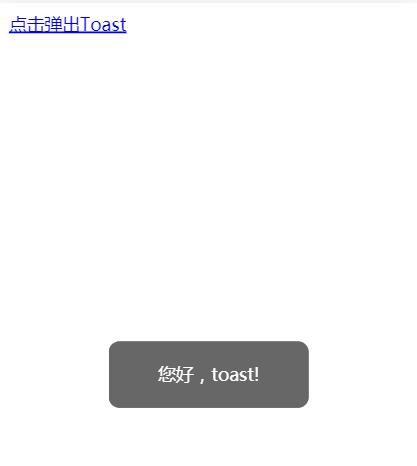
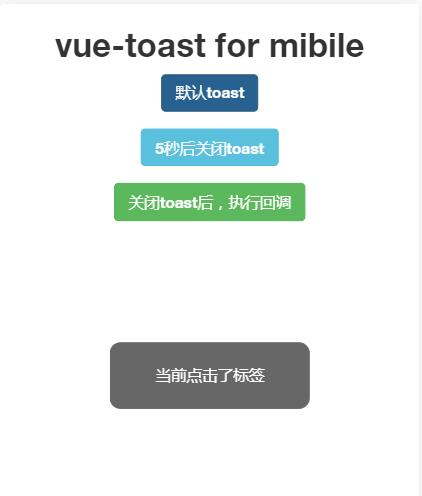
add
拓展功能实现

Changed region(s): [[0.2494, 0.1502, 0.7482, 0.4506], [0.2494, 0.691, 0.7482, 0.9013], [0.0, 0.03, 0.8729, 0.1202]]

diff --git a/dist/vue-toast-demo.js b/dist/vue-toast-demo.js
@@ -1,1 +1,1 @@
-!function(t,e){"object"==typeof exports&&"object"==typeof module?module.exports=e():"function"==typeof define&&define.amd?define([],e):"object"==typeof exports?exports.VueToastDemo=e():t.VueToastDemo=e()}(window,function(){return function(t){var e={};function n(o){if(e[o])return e[o].exports;var r=e[o]={i:o,l:!1,exports:{}};return t[o].call(r.exports,r,r.exports,n),r.l=!0,r.exports}return n.m=t,n.c=e,n.d=function(t,e,o){n.o(t,e)||Object.defineProperty(t,e,{configurable:!1,enumerable:!0,get:o})},n.r=function(t){Object.defineProperty(t,"__esModule",{value:!0})},n.n=function(t){var e=t&&t.__esModule?function(){return t.default}:function(){return t};return n.d(e,"a",e),e},n.o=function(t,e){return Object.prototype.hasOwnProperty.call(t,e)},n.p="",n(n.s=9)}([function(t,e,n){"use strict";Object.defineProperty(e,"__esModule",{value:!0}),e.default={data:function(){return{message:"",visible:!1}}}},function(t,e,n){"use strict";n.d(e,"a",function(){return o}),n.d(e,"b",function(){return r});var o=function(){var t=this.$createElement,e=this._self._c||t;return e("section",{staticClass:"toast-container"},[e("div",{staticClass:"toast",class:[this.visible?"fade-in":"fade-out"]},[e("span",[this._v(this._s(this.message))])])])},r=[];o._withStripped=!0},function(t,e,n){"use strict";function o(t,e,n,o,r,i,a,s){var u=typeof(t=t||{}).default;"object"!==u&&"function"!==u||(t=t.default);var f,c="function"==typeof t?t.options:t;if(e&&(c.render=e,c.staticRenderFns=n,c._compiled=!0),o&&(c.functional=!0),i&&(c._scopeId=i),a?(f=function(t){(t=t||this.$vnode&&this.$vnode.ssrContext||this.parent&&this.parent.$vnode&&this.parent.$vnode.ssrContext)||"undefined"==typeof __VUE_SSR_CONTEXT__||(t=__VUE_SSR_CONTEXT__),r&&r.call(this,t),t&&t._registeredComponents&&t._registeredComponents.add(a)},c._ssrRegister=f):r&&(f=s?function(){r.call(this,this.$root.$options.shadowRoot)}:r),f)if(c.functional){c._injectStyles=f;var l=c.render;c.render=function(t,e){return f.call(e),l(t,e)}}else{var d=c.beforeCreate;c.beforeCreate=d?[].concat(d,f):[f]}return{exports:t,options:c}}n.d(e,"a",function(){return o})},function(t,e){t.exports=function(t){var e="undefined"!=typeof window&&window.location;if(!e)throw new Error("fixUrls requires window.location");if(!t||"string"!=typeof t)return t;var n=e.protocol+"//"+e.host,o=n+e.pathname.replace(/\/[^\/]*$/,"/");return t.replace(/url\s*\(((?:[^)(]|\((?:[^)(]+|\([^)(]*\))*\))*)\)/gi,function(t,e){var r,i=e.trim().replace(/^"(.*)"$/,function(t,e){return e}).replace(/^'(.*)'$/,function(t,e){return e});return/^(#|data:|http:\/\/|https:\/\/|file:\/\/\/|\s*$)/i.test(i)?t:(r=0===i.indexOf("//")?i:0===i.indexOf("/")?n+i:o+i.replace(/^\.\//,""),"url("+JSON.stringify(r)+")")})}},function(t,e,n){var o,r,i={},a=(o=function(){return window&&document&&document.all&&!window.atob},function(){return void 0===r&&(r=o.apply(this,arguments)),r}),s=function(t){var e={};return function(t){if("function"==typeof t)return t();if(void 0===e[t]){var n=function(t){return document.querySelector(t)}.call(this,t);if(window.HTMLIFrameElement&&n instanceof window.HTMLIFrameElement)try{n=n.contentDocument.head}catch(t){n=null}e[t]=n}return e[t]}}(),u=null,f=0,c=[],l=n(3);function d(t,e){for(var n=0;n<t.length;n++){var o=t[n],r=i[o.id];if(r){r.refs++;for(var a=0;a<r.parts.length;a++)r.parts[a](o.parts[a]);for(;a<o.parts.length;a++)r.parts.push(y(o.parts[a],e))}else{var s=[];for(a=0;a<o.parts.length;a++)s.push(y(o.parts[a],e));i[o.id]={id:o.id,refs:1,parts:s}}}}function p(t,e){for(var n=[],o={},r=0;r<t.length;r++){var i=t[r],a=e.base?i[0]+e.base:i[0],s={css:i[1],media:i[2],sourceMap:i[3]};o[a]?o[a].parts.push(s):n.push(o[a]={id:a,parts:[s]})}return n}function v(t,e){var n=s(t.insertInto);if(!n)throw new Error("Couldn't find a style target. This probably means that the value for the 'insertInto' parameter is invalid.");var o=c[c.length-1];if("top"===t.insertAt)o?o.nextSibling?n.insertBefore(e,o.nextSibling):n.appendChild(e):n.insertBefore(e,n.firstChild),c.push(e);else if("bottom"===t.insertAt)n.appendChild(e);else{if("object"!=typeof t.insertAt||!t.insertAt.before)throw new Error("[Style Loader]\n\n Invalid value for parameter 'insertAt' ('options.insertAt') found.\n Must be 'top', 'bottom', or Object.\n (https://github.com/webpack-contrib/style-loader#insertat)\n");var r=s(t.insertInto+" "+t.insertAt.before);n.insertBefore(e,r)}}function h(t){if(null===t.parentNode)return!1;t.parentNode.removeChild(t);var e=c.indexOf(t);e>=0&&c.splice(e,1)}function m(t){var e=document.createElement("style");return t.attrs.type="text/css",b(e,t.attrs),v(t,e),e}function b(t,e){Object.keys(e).forEach(function(n){t.setAttribute(n,e[n])})}function y(t,e){var n,o,r,i;if(e.transform&&t.css){if(!(i=e.transform(t.css)))return function(){};t.css=i}if(e.singleton){var a=f++;n=u||(u=m(e)),o=w.bind(null,n,a,!1),r=w.bind(null,n,a,!0)}else t.sourceMap&&"function"==typeof URL&&"function"==typeof URL.createObjectURL&&"function"==typeof URL.revokeObjectURL&&"function"==typeof Blob&&"function"==typeof btoa?(n=function(t){var e=document.createElement("link");return t.attrs.type="text/css",t.attrs.rel="stylesheet",b(e,t.attrs),v(t,e),e}(e),o=function(t,e,n){var o=n.css,r=n.sourceMap,i=void 0===e.convertToAbsoluteUrls&&r;(e.convertToAbsoluteUrls||i)&&(o=l(o));r&&(o+="\n/*# sourceMappingURL=data:application/json;base64,"+btoa(unescape(encodeURIComponent(JSON.stringify(r))))+" */");var a=new Blob([o],{type:"text/css"}),s=t.href;t.href=URL.createObjectURL(a),s&&URL.revokeObjectURL(s)}.bind(null,n,e),r=function(){h(n),n.href&&URL.revokeObjectURL(n.href)}):(n=m(e),o=function(t,e){var n=e.css,o=e.media;o&&t.setAttribute("media",o);if(t.styleSheet)t.styleSheet.cssText=n;else{for(;t.firstChild;)t.removeChild(t.firstChild);t.appendChild(document.createTextNode(n))}}.bind(null,n),r=function(){h(n)});return o(t),function(e){if(e){if(e.css===t.css&&e.media===t.media&&e.sourceMap===t.sourceMap)return;o(t=e)}else r()}}t.exports=function(t,e){if("undefined"!=typeof DEBUG&&DEBUG&&"object"!=typeof document)throw new Error("The style-loader cannot be used in a non-browser environment");(e=e||{}).attrs="object"==typeof e.attrs?e.attrs:{},e.singleton||"boolean"==typeof e.singleton||(e.singleton=a()),e.insertInto||(e.insertInto="head"),e.insertAt||(e.insertAt="bottom");var n=p(t,e);return d(n,e),function(t){for(var o=[],r=0;r<n.length;r++){var a=n[r];(s=i[a.id]).refs--,o.push(s)}t&&d(p(t,e),e);for(r=0;r<o.length;r++){var s;if(0===(s=o[r]).refs){for(var u=0;u<s.parts.length;u++)s.parts[u]();delete i[s.id]}}}};var g,x=(g=[],function(t,e){return g[t]=e,g.filter(Boolean).join("\n")});function w(t,e,n,o){var r=n?"":o.css;if(t.styleSheet)t.styleSheet.cssText=x(e,r);else{var i=document.createTextNode(r),a=t.childNodes;a[e]&&t.removeChild(a[e]),a.length?t.insertBefore(i,a[e]):t.appendChild(i)}}},function(t,e){t.exports=function(t){var e=[];return e.toString=function(){return this.map(function(e){var n=function(t,e){var n=t[1]||"",o=t[3];if(!o)return n;if(e&&"function"==typeof btoa){var r=(a=o,"/*# sourceMappingURL=data:application/json;charset=utf-8;base64,"+btoa(unescape(encodeURIComponent(JSON.stringify(a))))+" */"),i=o.sources.map(function(t){return"/*# sourceURL="+o.sourceRoot+t+" */"});return[n].concat(i).concat([r]).join("\n")}var a;return[n].join("\n")}(e,t);return e[2]?"@media "+e[2]+"{"+n+"}":n}).join("")},e.i=function(t,n){"string"==typeof t&&(t=[[null,t,""]]);for(var o={},r=0;r<this.length;r++){var i=this[r][0];"number"==typeof i&&(o[i]=!0)}for(r=0;r<t.length;r++){var a=t[r];"number"==typeof a[0]&&o[a[0]]||(n&&!a[2]?a[2]=n:n&&(a[2]="("+a[2]+") and ("+n+")"),e.push(a))}},e}},function(t,e,n){(t.exports=n(5)(!1)).push([t.i,"\n@keyframes fade-in-data-v-568a1e73 {\n0% {\n    opacity: 0;\n    transform: scale(0.7);\n}\n100% {\n    opacity: 1;\n    transform: scale(1);\n}\n}\n@keyframes fade-out-data-v-568a1e73 {\n0% {\n    opacity: 1;\n    transform: scale(1);\n}\n100% {\n    opacity: 0;\n    transform: scale(0.7);\n}\n}\n.toast-container[data-v-568a1e73] {\n  position: absolute;\n  left: 0;\n  top: 0;\n  bottom: 0;\n  right: 0;\n  z-index: 2000;\n  display: flex;\n  justify-content: center;\n  align-items: center;\n}\n.toast-container .toast[data-v-568a1e73] {\n    width: 180px;\n    height: 60px;\n    line-height: 60px;\n    text-align: center;\n    background-color: rgba(0, 0, 0, 0.6);\n    border-radius: 10px;\n    color: white;\n}\n.toast-container .fade-in[data-v-568a1e73] {\n    animation-name: fade-in-data-v-568a1e73;\n    animation-duration: 0.3s;\n    animation-fill-mode: both;\n}\n.toast-container .fade-out[data-v-568a1e73] {\n    animation-name: fade-out-data-v-568a1e73;\n    animation-duration: 0.3s;\n    animation-fill-mode: both;\n}\n",""])},function(t,e,n){var o=n(6);"string"==typeof o&&(o=[[t.i,o,""]]);var r={hmr:!0,transform:void 0,insertInto:void 0};n(4)(o,r);o.locals&&(t.exports=o.locals)},function(t,e,n){"use strict";n.r(e);var o=n(0),r=n.n(o);for(var i in o)"default"!==i&&function(t){n.d(e,t,function(){return o[t]})}(i);var a=n(1),s=n(2),u=!1;var f=function(t){u||n(7)},c=Object(s.a)(r.a,a.a,a.b,!1,f,"data-v-568a1e73",null);c.options.__file="src\\lib\\vue-toast.vue",e.default=c.exports},function(t,e,n){"use strict";Object.defineProperty(e,"__esModule",{value:!0});var o,r="function"==typeof Symbol&&"symbol"==typeof Symbol.iterator?function(t){return typeof t}:function(t){return t&&"function"==typeof Symbol&&t.constructor===Symbol&&t!==Symbol.prototype?"symbol":typeof t},i=n(8),a=(o=i)&&o.__esModule?o:{default:o};var s={install:function(t,e){var n={duration:3e3};for(var o in e)n[o]=e[o];t.prototype.$toast=function(e,o){if("object"==(void 0===o?"undefined":r(o)))for(var i in o)n[i]=o[i];var s=(new(t.extend(a.default))).$mount(document.createElement("div"));s.message=e,s.visible=!0,document.body.appendChild(s.$el),setTimeout(function(){s.visible=!1,document.body.removeChild(s.$el)},n.duration)},t.prototype.$toast.show=function(e,n){t.prototype.$toast(e,n)},t.prototype.$toast.success=function(e,n){t.prototype.$toast(e,n)},t.prototype.$toast.info=function(e,n){t.prototype.$toast(e,n)},t.prototype.$toast.error=function(e,n){t.prototype.$toast(e,n)}}};window.Vue&&Vue.use(s),e.default=s}])});
+!function(t,e){"object"==typeof exports&&"object"==typeof module?module.exports=e():"function"==typeof define&&define.amd?define([],e):"object"==typeof exports?exports.VueToastDemo=e():t.VueToastDemo=e()}(window,function(){return function(t){var e={};function n(o){if(e[o])return e[o].exports;var r=e[o]={i:o,l:!1,exports:{}};return t[o].call(r.exports,r,r.exports,n),r.l=!0,r.exports}return n.m=t,n.c=e,n.d=function(t,e,o){n.o(t,e)||Object.defineProperty(t,e,{configurable:!1,enumerable:!0,get:o})},n.r=function(t){Object.defineProperty(t,"__esModule",{value:!0})},n.n=function(t){var e=t&&t.__esModule?function(){return t.default}:function(){return t};return n.d(e,"a",e),e},n.o=function(t,e){return Object.prototype.hasOwnProperty.call(t,e)},n.p="",n(n.s=9)}([function(t,e,n){"use strict";Object.defineProperty(e,"__esModule",{value:!0}),e.default={data:function(){return{message:"",visible:!1}}}},function(t,e,n){"use strict";n.d(e,"a",function(){return o}),n.d(e,"b",function(){return r});var o=function(){var t=this.$createElement,e=this._self._c||t;return e("section",{staticClass:"toast-container"},[e("div",{staticClass:"toast",class:[this.visible?"fade-in":"fade-out"]},[e("span",[this._v(this._s(this.message))])])])},r=[];o._withStripped=!0},function(t,e,n){"use strict";function o(t,e,n,o,r,i,a,s){var u=typeof(t=t||{}).default;"object"!==u&&"function"!==u||(t=t.default);var f,c="function"==typeof t?t.options:t;if(e&&(c.render=e,c.staticRenderFns=n,c._compiled=!0),o&&(c.functional=!0),i&&(c._scopeId=i),a?(f=function(t){(t=t||this.$vnode&&this.$vnode.ssrContext||this.parent&&this.parent.$vnode&&this.parent.$vnode.ssrContext)||"undefined"==typeof __VUE_SSR_CONTEXT__||(t=__VUE_SSR_CONTEXT__),r&&r.call(this,t),t&&t._registeredComponents&&t._registeredComponents.add(a)},c._ssrRegister=f):r&&(f=s?function(){r.call(this,this.$root.$options.shadowRoot)}:r),f)if(c.functional){c._injectStyles=f;var l=c.render;c.render=function(t,e){return f.call(e),l(t,e)}}else{var d=c.beforeCreate;c.beforeCreate=d?[].concat(d,f):[f]}return{exports:t,options:c}}n.d(e,"a",function(){return o})},function(t,e){t.exports=function(t){var e="undefined"!=typeof window&&window.location;if(!e)throw new Error("fixUrls requires window.location");if(!t||"string"!=typeof t)return t;var n=e.protocol+"//"+e.host,o=n+e.pathname.replace(/\/[^\/]*$/,"/");return t.replace(/url\s*\(((?:[^)(]|\((?:[^)(]+|\([^)(]*\))*\))*)\)/gi,function(t,e){var r,i=e.trim().replace(/^"(.*)"$/,function(t,e){return e}).replace(/^'(.*)'$/,function(t,e){return e});return/^(#|data:|http:\/\/|https:\/\/|file:\/\/\/|\s*$)/i.test(i)?t:(r=0===i.indexOf("//")?i:0===i.indexOf("/")?n+i:o+i.replace(/^\.\//,""),"url("+JSON.stringify(r)+")")})}},function(t,e,n){var o,r,i={},a=(o=function(){return window&&document&&document.all&&!window.atob},function(){return void 0===r&&(r=o.apply(this,arguments)),r}),s=function(t){var e={};return function(t){if("function"==typeof t)return t();if(void 0===e[t]){var n=function(t){return document.querySelector(t)}.call(this,t);if(window.HTMLIFrameElement&&n instanceof window.HTMLIFrameElement)try{n=n.contentDocument.head}catch(t){n=null}e[t]=n}return e[t]}}(),u=null,f=0,c=[],l=n(3);function d(t,e){for(var n=0;n<t.length;n++){var o=t[n],r=i[o.id];if(r){r.refs++;for(var a=0;a<r.parts.length;a++)r.parts[a](o.parts[a]);for(;a<o.parts.length;a++)r.parts.push(y(o.parts[a],e))}else{var s=[];for(a=0;a<o.parts.length;a++)s.push(y(o.parts[a],e));i[o.id]={id:o.id,refs:1,parts:s}}}}function p(t,e){for(var n=[],o={},r=0;r<t.length;r++){var i=t[r],a=e.base?i[0]+e.base:i[0],s={css:i[1],media:i[2],sourceMap:i[3]};o[a]?o[a].parts.push(s):n.push(o[a]={id:a,parts:[s]})}return n}function v(t,e){var n=s(t.insertInto);if(!n)throw new Error("Couldn't find a style target. This probably means that the value for the 'insertInto' parameter is invalid.");var o=c[c.length-1];if("top"===t.insertAt)o?o.nextSibling?n.insertBefore(e,o.nextSibling):n.appendChild(e):n.insertBefore(e,n.firstChild),c.push(e);else if("bottom"===t.insertAt)n.appendChild(e);else{if("object"!=typeof t.insertAt||!t.insertAt.before)throw new Error("[Style Loader]\n\n Invalid value for parameter 'insertAt' ('options.insertAt') found.\n Must be 'top', 'bottom', or Object.\n (https://github.com/webpack-contrib/style-loader#insertat)\n");var r=s(t.insertInto+" "+t.insertAt.before);n.insertBefore(e,r)}}function h(t){if(null===t.parentNode)return!1;t.parentNode.removeChild(t);var e=c.indexOf(t);e>=0&&c.splice(e,1)}function m(t){var e=document.createElement("style");return t.attrs.type="text/css",b(e,t.attrs),v(t,e),e}function b(t,e){Object.keys(e).forEach(function(n){t.setAttribute(n,e[n])})}function y(t,e){var n,o,r,i;if(e.transform&&t.css){if(!(i=e.transform(t.css)))return function(){};t.css=i}if(e.singleton){var a=f++;n=u||(u=m(e)),o=x.bind(null,n,a,!1),r=x.bind(null,n,a,!0)}else t.sourceMap&&"function"==typeof URL&&"function"==typeof URL.createObjectURL&&"function"==typeof URL.revokeObjectURL&&"function"==typeof Blob&&"function"==typeof btoa?(n=function(t){var e=document.createElement("link");return t.attrs.type="text/css",t.attrs.rel="stylesheet",b(e,t.attrs),v(t,e),e}(e),o=function(t,e,n){var o=n.css,r=n.sourceMap,i=void 0===e.convertToAbsoluteUrls&&r;(e.convertToAbsoluteUrls||i)&&(o=l(o));r&&(o+="\n/*# sourceMappingURL=data:application/json;base64,"+btoa(unescape(encodeURIComponent(JSON.stringify(r))))+" */");var a=new Blob([o],{type:"text/css"}),s=t.href;t.href=URL.createObjectURL(a),s&&URL.revokeObjectURL(s)}.bind(null,n,e),r=function(){h(n),n.href&&URL.revokeObjectURL(n.href)}):(n=m(e),o=function(t,e){var n=e.css,o=e.media;o&&t.setAttribute("media",o);if(t.styleSheet)t.styleSheet.cssText=n;else{for(;t.firstChild;)t.removeChild(t.firstChild);t.appendChild(document.createTextNode(n))}}.bind(null,n),r=function(){h(n)});return o(t),function(e){if(e){if(e.css===t.css&&e.media===t.media&&e.sourceMap===t.sourceMap)return;o(t=e)}else r()}}t.exports=function(t,e){if("undefined"!=typeof DEBUG&&DEBUG&&"object"!=typeof document)throw new Error("The style-loader cannot be used in a non-browser environment");(e=e||{}).attrs="object"==typeof e.attrs?e.attrs:{},e.singleton||"boolean"==typeof e.singleton||(e.singleton=a()),e.insertInto||(e.insertInto="head"),e.insertAt||(e.insertAt="bottom");var n=p(t,e);return d(n,e),function(t){for(var o=[],r=0;r<n.length;r++){var a=n[r];(s=i[a.id]).refs--,o.push(s)}t&&d(p(t,e),e);for(r=0;r<o.length;r++){var s;if(0===(s=o[r]).refs){for(var u=0;u<s.parts.length;u++)s.parts[u]();delete i[s.id]}}}};var g,w=(g=[],function(t,e){return g[t]=e,g.filter(Boolean).join("\n")});function x(t,e,n,o){var r=n?"":o.css;if(t.styleSheet)t.styleSheet.cssText=w(e,r);else{var i=document.createTextNode(r),a=t.childNodes;a[e]&&t.removeChild(a[e]),a.length?t.insertBefore(i,a[e]):t.appendChild(i)}}},function(t,e){t.exports=function(t){var e=[];return e.toString=function(){return this.map(function(e){var n=function(t,e){var n=t[1]||"",o=t[3];if(!o)return n;if(e&&"function"==typeof btoa){var r=(a=o,"/*# sourceMappingURL=data:application/json;charset=utf-8;base64,"+btoa(unescape(encodeURIComponent(JSON.stringify(a))))+" */"),i=o.sources.map(function(t){return"/*# sourceURL="+o.sourceRoot+t+" */"});return[n].concat(i).concat([r]).join("\n")}var a;return[n].join("\n")}(e,t);return e[2]?"@media "+e[2]+"{"+n+"}":n}).join("")},e.i=function(t,n){"string"==typeof t&&(t=[[null,t,""]]);for(var o={},r=0;r<this.length;r++){var i=this[r][0];"number"==typeof i&&(o[i]=!0)}for(r=0;r<t.length;r++){var a=t[r];"number"==typeof a[0]&&o[a[0]]||(n&&!a[2]?a[2]=n:n&&(a[2]="("+a[2]+") and ("+n+")"),e.push(a))}},e}},function(t,e,n){(t.exports=n(5)(!1)).push([t.i,"\n@keyframes fade-in-data-v-568a1e73 {\n0% {\n    opacity: 0;\n    transform: scale(0.7);\n}\n100% {\n    opacity: 1;\n    transform: scale(1);\n}\n}\n@keyframes fade-out-data-v-568a1e73 {\n0% {\n    opacity: 1;\n    transform: scale(1);\n}\n100% {\n    opacity: 0;\n    transform: scale(0.7);\n}\n}\n.toast-container[data-v-568a1e73] {\n  position: absolute;\n  left: 0;\n  top: 0;\n  bottom: 0;\n  right: 0;\n  z-index: 2000;\n  display: flex;\n  justify-content: center;\n  align-items: center;\n}\n.toast-container .toast[data-v-568a1e73] {\n    width: 180px;\n    height: 60px;\n    line-height: 60px;\n    text-align: center;\n    background-color: rgba(0, 0, 0, 0.6);\n    border-radius: 10px;\n    color: white;\n}\n.toast-container .fade-in[data-v-568a1e73] {\n    animation-name: fade-in-data-v-568a1e73;\n    animation-duration: 0.3s;\n    animation-fill-mode: both;\n}\n.toast-container .fade-out[data-v-568a1e73] {\n    animation-name: fade-out-data-v-568a1e73;\n    animation-duration: 0.3s;\n    animation-fill-mode: both;\n}\n",""])},function(t,e,n){var o=n(6);"string"==typeof o&&(o=[[t.i,o,""]]);var r={hmr:!0,transform:void 0,insertInto:void 0};n(4)(o,r);o.locals&&(t.exports=o.locals)},function(t,e,n){"use strict";n.r(e);var o=n(0),r=n.n(o);for(var i in o)"default"!==i&&function(t){n.d(e,t,function(){return o[t]})}(i);var a=n(1),s=n(2),u=!1;var f=function(t){u||n(7)},c=Object(s.a)(r.a,a.a,a.b,!1,f,"data-v-568a1e73",null);c.options.__file="src\\lib\\vue-toast.vue",e.default=c.exports},function(t,e,n){"use strict";Object.defineProperty(e,"__esModule",{value:!0});var o,r="function"==typeof Symbol&&"symbol"==typeof Symbol.iterator?function(t){return typeof t}:function(t){return t&&"function"==typeof Symbol&&t.constructor===Symbol&&t!==Symbol.prototype?"symbol":typeof t},i=n(8),a=(o=i)&&o.__esModule?o:{default:o};var s={install:function(t,e){var n={duration:3e3};for(var o in e)n[o]=e[o];t.prototype.$toast=function(e,o){var i="";if("object"==(void 0===o?"undefined":r(o)))for(var s in o)n[s]=o[s];else"function"==typeof o&&(i=o);var u=(new(t.extend(a.default))).$mount(document.createElement("div"));u.message=e,u.visible=!0,document.body.appendChild(u.$el),setTimeout(function(){u.visible=!1,setTimeout(function(){document.body.removeChild(u.$el),i&&i()},500)},n.duration)},["show","success","info","error"].forEach(function(e){t.prototype.$toast[e]=function(e,n){return t.prototype.$toast(e,n)}})}};"undefined"!=typeof window&&window.Vue&&window.Vue.use(s),e.default=s}])});

diff --git a/src/index.html b/src/index.html
@@ -5,19 +5,39 @@
     <meta http-equiv="X-UA-Compatible" content="IE=edge">
     <meta name="viewport" content="initial-scale=1.0, minimum-scale=1.0, maximum-scale=1.0, user-scalable=no">
     <title>Title</title>
+    <link rel="stylesheet" href="https://cdn.bootcss.com/bootstrap/3.3.7/css/bootstrap.min.css">
     <script type="text/javascript" src="../node_modules/vue/dist/vue.js"></script>
     <script type="text/javascript" src="../dist/vue-toast-demo.js"></script>
 </head>
 <body>
-<div id="app">
-    <a href="javascript:;" @click="toast">点击弹出Toast</a>
+<div id="app" class="text-center">
+    <h2>vue-toast for mibile</h2>
+    <div class="form-group row">
+        <a class="btn btn-primary" href="javascript:;" @click="toast">默认toast</a>
+    </div>
+    <div class="form-group row">
+        <a class="btn btn-info" href="javascript:;" @click="toast2">5秒后关闭toast</a>
+    </div>
+    <div class="form-group row">
+        <a class="btn btn-success" href="javascript:;" @click="toast3">关闭toast后，执行回调</a>
+    </div>
 </div>
 <script type="text/javascript">
     new Vue({
         el:"#app",
         methods:{
             toast:function(){
-                this.$toast.show("您好，toast!")
+                this.$toast.show("当前点击了标签");
+            },
+            toast2:function(){
+                this.$toast.show("当前点击了标签",{
+                    duration:5000
+                });
+            },
+            toast3:function(){
+                this.$toast.show("当前点击了标签",function(){
+                    alert("这里是回掉函数")
+                });
             }
         }
     })
